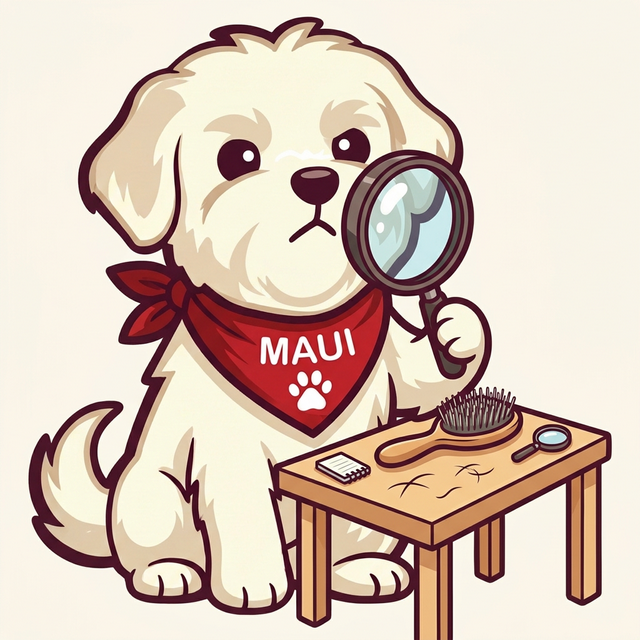
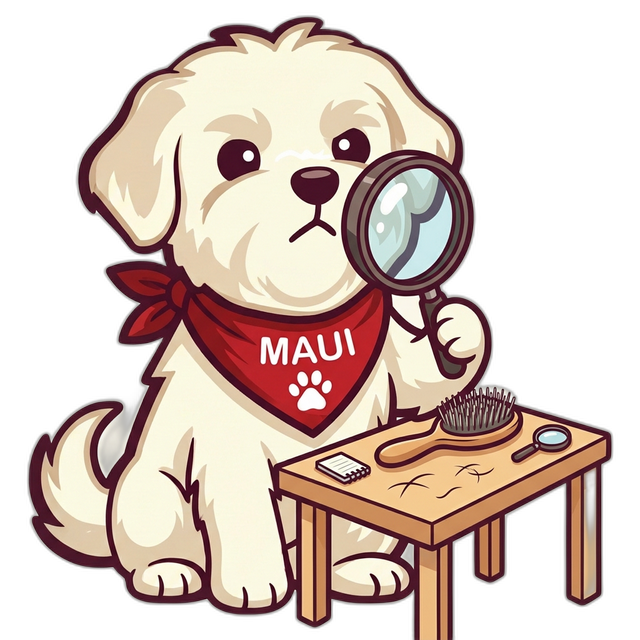
Make all blog images fully transparent to seamlessly blend into container gradients

diff --git a/make_transparent.py b/make_transparent.py
@@ -1,0 +1,34 @@
+import glob
+import os
+
+try:
+    from rembg import remove
+    from PIL import Image
+except ImportError:
+    print("Please install rembg and Pillow: pip install rembg Pillow")
+    exit(1)
+
+input_patterns = [
+    'public/maui-assets/*blog.png',
+    'public/blog-assets/*blog.png',
+    'public/maui-characters/*costume.png'
+]
+
+print("Starting background removal process...")
+for pattern in input_patterns:
+    for input_path in glob.glob(pattern):
+        print(f"Processing {input_path}...")
+        try:
+            # First, check if the image has a fake background and remove it using rembg
+            input_image = Image.open(input_path).convert("RGBA")
+            
+            # Remove the background to get a clean transparent image
+            print("  Removing background...")
+            transparent_image = remove(input_image)
+            
+            # Save the image as transparent PNG
+            transparent_image.save(input_path)
+            print(f"Successfully made background transparent for {input_path}")
+        except Exception as e:
+            print(f"Error processing {input_path}: {e}")
+print("Done!")
